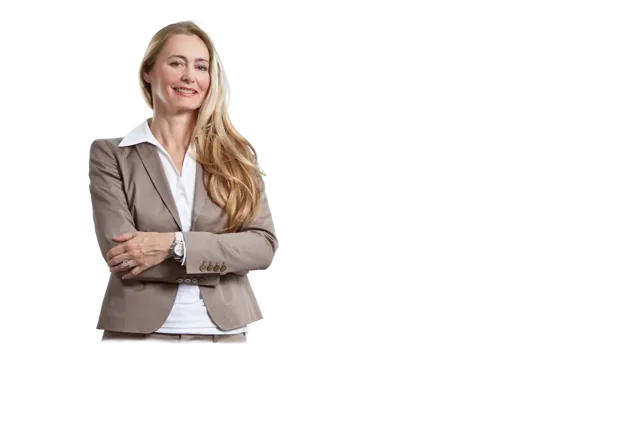
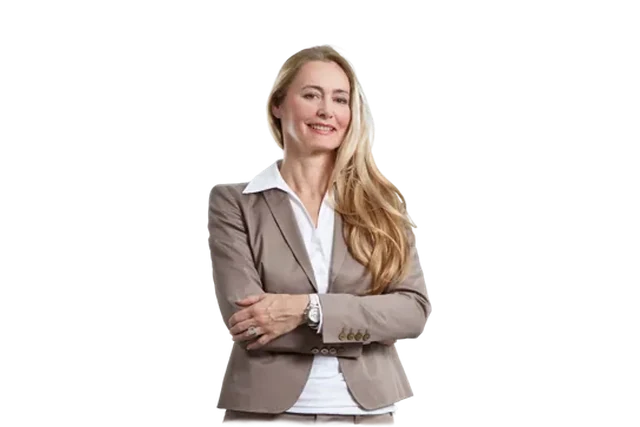
Fix Executive card alignment in the Our team menu
Re-compose the Executive cutout so the person is centred and anchored
to the bottom of the card like the other teams, and keep menu labels
on one line so their arrows line up.

Claude-Session: https://claude.ai/code/session_01KvHJ1TESCFFYhafW8Snrow

diff --git a/src/components/layout/Header.tsx b/src/components/layout/Header.tsx
@@ -29,7 +29,7 @@ function CardGrid({ items, teamStyle, onNavigate }: { items: NavCard[]; teamStyl
           >
             <img src={item.image} alt="" className={`absolute inset-0 size-full transition-transform duration-300 group-hover:scale-105 ${teamStyle ? 'object-cover object-top' : 'object-cover'}`} />
           </span>
-          <span className="flex items-center pl-2 text-sm text-bh-blue-1100 group-hover:text-bh-blue">
+          <span className="flex items-center whitespace-nowrap pl-2 text-sm text-bh-blue-1100 group-hover:text-bh-blue">
             {item.label}
             <img src={chevronSmall} alt="" className="size-[21.4px]" />
           </span>
